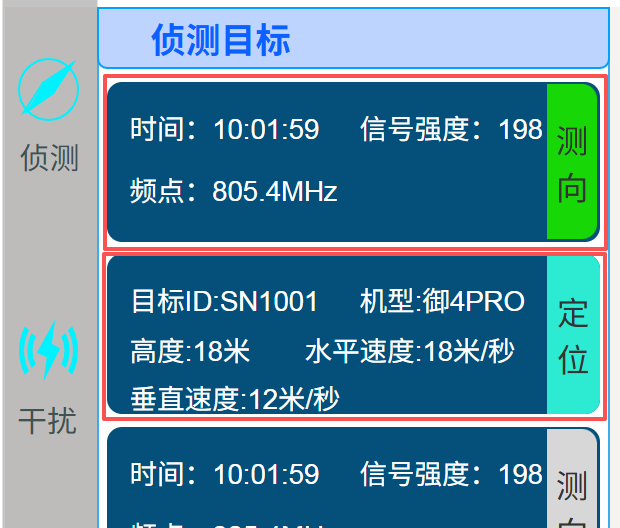
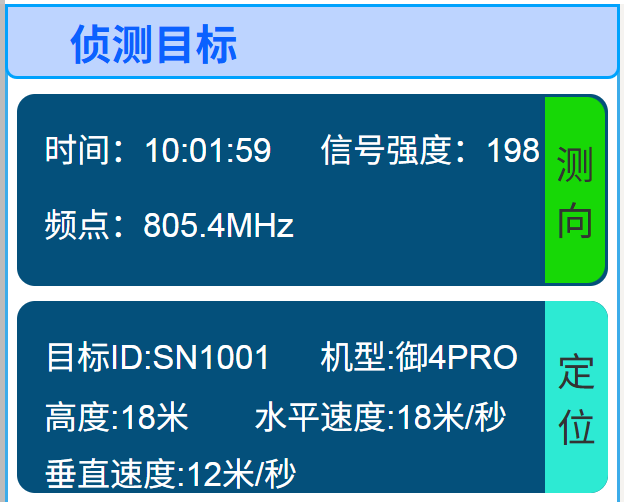
refactor: 严格按照原型设计重新实现侦测目标列表卡片布局

diff --git a/frontend/src/views/Main.vue b/frontend/src/views/Main.vue
@@ -41,44 +41,44 @@
           <div
             v-for="target in detectTargets"
             :key="target.id"
-            :class="['target-item', { selected: selectedTargetId === target.id }]"
+            :class="['target-card', { selected: selectedTargetId === target.id }]"
             @click="selectTarget(target)"
           >
             <!-- 左侧目标信息区域：深蓝色背景 -->
-            <div class="target-info-area">
+            <div class="target-info">
               <!-- 根据目标类型显示不同信息 -->
               <template v-if="target.type === 'signal'">
-                <!-- 信号信息卡片 -->
-                <div class="info-line">
+                <!-- 信号信息 -->
+                <div class="info-row">
                   <span class="info-text">时间: {{ target.time }}</span>
                   <span class="info-text">信号强度: {{ target.signalStrength }}</span>
                 </div>
-                <div class="info-line">
+                <div class="info-row">
                   <span class="info-text">频点: {{ target.frequency }}</span>
                 </div>
               </template>
               <template v-else>
-                <!-- 目标信息卡片 -->
-                <div class="info-line">
+                <!-- 目标信息 -->
+                <div class="info-row">
                   <span class="info-text">目标ID:{{ target.targetId }}</span>
                   <span class="info-text">机型:{{ target.model }}</span>
                 </div>
-                <div class="info-line">
+                <div class="info-row">
                   <span class="info-text">高度:{{ target.altitude }}米</span>
                   <span class="info-text">水平速度:{{ target.horizontalSpeed }}米/秒</span>
                 </div>
-                <div class="info-line">
+                <div class="info-row">
                   <span class="info-text">垂直速度:{{ target.verticalSpeed }}米/秒</span>
                 </div>
               </template>
             </div>
 
-            <!-- 右侧操作按钮区域：竖条填充布局 -->
+            <!-- 右侧竖条按钮：填充整个高度 -->
             <div
-              :class="['target-action-btn', target.buttonActive ? 'btn-active' : '']"
+              :class="['action-strip', target.buttonType === 'measure' ? 'measure-btn' : 'locate-btn']"
               @click.stop="toggleButton(target)"
             >
-              <span class="btn-text">{{ target.buttonType === 'measure' ? '测向' : '定位' }}</span>
+              <span class="strip-text">{{ target.buttonType === 'measure' ? '测向' : '定位' }}</span>
             </div>
           </div>
         </div>
@@ -506,12 +506,11 @@ onUnmounted(() => {
   background: #bbdefb; /* 浅蓝色背景 */
 }
 
-/* 侦测目标项 - 左右水平布局 */
-.target-item {
+/* 侦测目标卡片 - 独立圆角卡片 */
+.target-card {
   background: transparent;
-  border: 1px solid rgba(255, 255, 255, 0.3);
-  border-radius: 4px;
-  margin-bottom: 12px;
+  border-radius: 8px;
+  margin-bottom: 16px;
   display: flex;
   flex-direction: row;
   align-items: stretch;
@@ -521,26 +520,25 @@ onUnmounted(() => {
   overflow: hidden;
 }
 
-.target-item:hover {
-  box-shadow: 0 2px 8px rgba(0, 0, 0, 0.2);
+.target-card:hover {
+  box-shadow: 0 4px 12px rgba(0, 0, 0, 0.3);
 }
 
-.target-item.selected {
-  border-color: #4fc3f7;
-  box-shadow: 0 0 12px rgba(79, 195, 247, 0.5);
+.target-card.selected {
+  box-shadow: 0 0 16px rgba(79, 195, 247, 0.6);
 }
 
 /* 左侧目标信息区域 - 深蓝色背景 */
-.target-info-area {
+.target-info {
   flex: 1;
   background: #1a5490; /* 深蓝色背景 */
-  padding: 12px 16px;
+  padding: 16px 20px;
   display: flex;
   flex-direction: column;
-  gap: 8px;
+  gap: 12px;
 }
 
-.info-line {
+.info-row {
   display: flex;
   justify-content: space-between;
   align-items: center;
@@ -548,42 +546,52 @@ onUnmounted(() => {
 
 .info-text {
   color: #ffffff; /* 白色文字 */
-  font-size: 12px;
+  font-size: 13px;
   font-weight: 400;
+  letter-spacing: 0.5px;
 }
 
-/* 右侧操作按钮 - 竖条填充布局 */
-.target-action-btn {
-  width: 50px;
-  background: #bdbdbd; /* 默认灰色背景 */
+/* 右侧竖条按钮 - 填充整个高度 */
+.action-strip {
+  width: 60px;
   display: flex;
   align-items: center;
   justify-content: center;
   cursor: pointer;
   transition: all 0.3s ease;
-  border-left: 1px solid rgba(255, 255, 255, 0.1);
-}
-
-.target-action-btn:hover {
-  background: #9e9e9e;
-}
-
-.target-action-btn.btn-active {
-  background: #4caf50; /* 激活绿色背景 */
-}
-
-.target-action-btn.btn-active:hover {
-  background: #43a047;
-  box-shadow: 0 0 8px rgba(76, 175, 80, 0.6);
-}
-
-.btn-text {
-  color: #ffffff;
-  font-size: 13px;
-  font-weight: 500;
-  writing-mode: vertical-rl; /* 竖排文字 */
+  writing-mode: vertical-rl;
   text-orientation: upright;
-  letter-spacing: 2px;
+}
+
+.action-strip:hover {
+  filter: brightness(1.1);
+  box-shadow: 0 0 12px rgba(0, 0, 0, 0.3);
+}
+
+/* 测向按钮 - 亮绿色 */
+.action-strip.measure-btn {
+  background: #4caf50; /* 亮绿色 */
+}
+
+.action-strip.measure-btn:hover {
+  background: #43a047;
+}
+
+/* 定位按钮 - 青绿色 */
+.action-strip.locate-btn {
+  background: #26a69a; /* 青绿色 */
+}
+
+.action-strip.locate-btn:hover {
+  background: #00897b;
+}
+
+.strip-text {
+  color: #ffffff;
+  font-size: 14px;
+  font-weight: 600;
+  letter-spacing: 4px;
+  padding: 8px 0;
 }
 
 /* 地图区域 */
